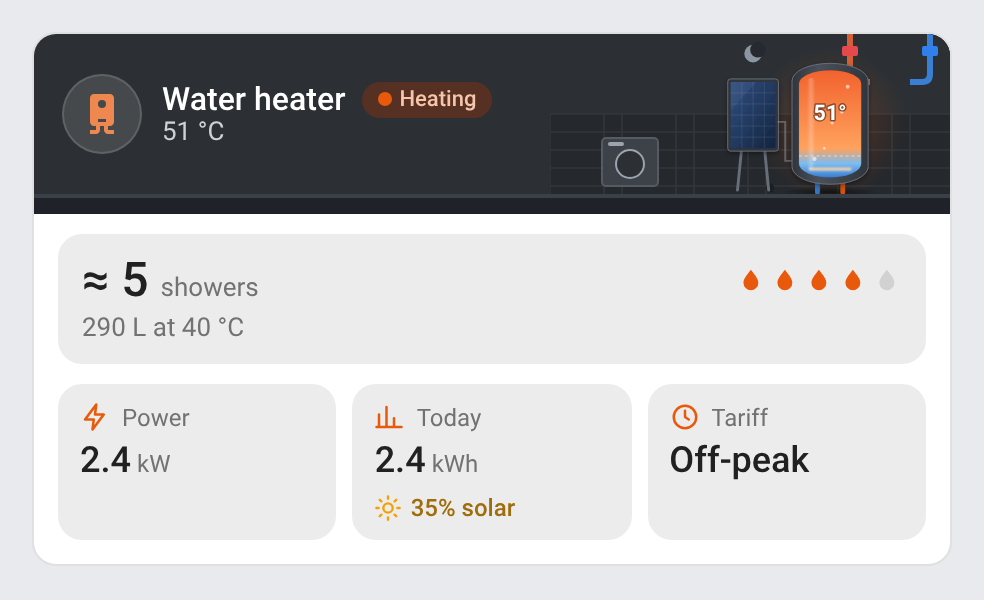
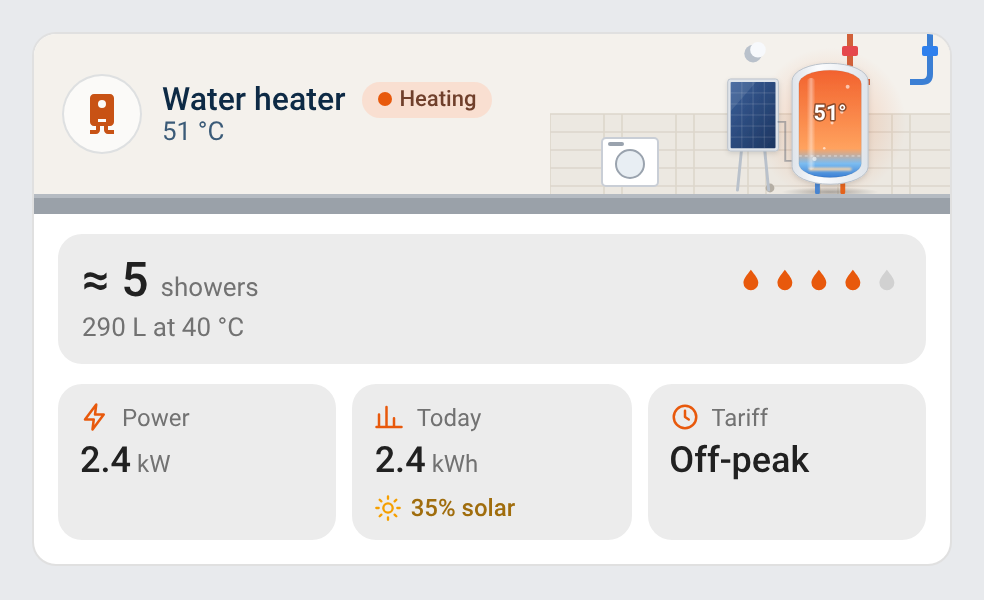
fix: follow the theme alone for the night header (1.2.1) (#9)
The illustrated header's automatic night picture now follows the Home
Assistant theme alone: a dark theme shows the night picture, a light
theme keeps the day one after sunset. A forced illustration_theme
day/night is unchanged.

Kept on purpose: the solar panel's sun or moon (PV-routed tanks) still
follows the real sun (sun.sun), as the README documents — it shows
whether the panel can produce, not the picture's look. Only the banner's
day/night look now follows the theme. The "Automatic" choice of the
header theme now reads "Automatic (follows the theme)" in every
language.

---
_Generated by [Claude
Code](https://claude.ai/code/session_01F4sAn3hi6KaFRisBGMxcQA)_

---------

Changed region(s): [[0.0305, 0.03, 0.9756, 0.36]]

diff --git a/src/shared.js b/src/shared.js
@@ -1523,7 +1523,7 @@ const WH_I18N = {
     ed_title_helper: "Empty: the water heater's name",
     ed_illustration: "Illustrated header",
     ed_illustration_theme: "Header theme",
-    ed_theme_auto: "Automatic (sun or dark theme)",
+    ed_theme_auto: "Automatic (follows the theme)",
     ed_theme_day: "Day",
     ed_theme_night: "Night",
   },
@@ -1584,7 +1584,7 @@ const WH_I18N = {
     ed_title_helper: "Vide : le nom du chauffe-eau",
     ed_illustration: "En-tête illustré",
     ed_illustration_theme: "Thème de l’en-tête",
-    ed_theme_auto: "Automatique (soleil ou thème sombre)",
+    ed_theme_auto: "Automatique (suit le thème)",
     ed_theme_day: "Jour",
     ed_theme_night: "Nuit",
   },
@@ -1645,7 +1645,7 @@ const WH_I18N = {
     ed_title_helper: "Leer: der Name des Warmwasserspeichers",
     ed_illustration: "Illustrierte Kopfzeile",
     ed_illustration_theme: "Thema der Kopfzeile",
-    ed_theme_auto: "Automatisch (Sonne oder dunkles Design)",
+    ed_theme_auto: "Automatisch (folgt dem Design)",
     ed_theme_day: "Tag",
     ed_theme_night: "Nacht",
   },
@@ -1706,7 +1706,7 @@ const WH_I18N = {
     ed_title_helper: "Vacío: el nombre del calentador",
     ed_illustration: "Encabezado ilustrado",
     ed_illustration_theme: "Tema del encabezado",
-    ed_theme_auto: "Automático (sol o tema oscuro)",
+    ed_theme_auto: "Automático (sigue el tema)",
     ed_theme_day: "Día",
     ed_theme_night: "Noche",
   },
@@ -1768,7 +1768,7 @@ const WH_I18N = {
     ed_title_helper: "Празно: назив бојлера",
     ed_illustration: "Илустровано заглавље",
     ed_illustration_theme: "Тема заглавља",
-    ed_theme_auto: "Аутоматски (сунце или тамна тема)",
+    ed_theme_auto: "Аутоматски (прати тему)",
     ed_theme_day: "Дан",
     ed_theme_night: "Ноћ",
   },
@@ -1830,7 +1830,7 @@ const WH_I18N = {
     ed_title_helper: "Prazno: naziv bojlera",
     ed_illustration: "Ilustrovano zaglavlje",
     ed_illustration_theme: "Tema zaglavlja",
-    ed_theme_auto: "Automatski (sunce ili tamna tema)",
+    ed_theme_auto: "Automatski (prati temu)",
     ed_theme_day: "Dan",
     ed_theme_night: "Noć",
   },
@@ -1891,7 +1891,7 @@ const WH_I18N = {
     ed_title_helper: "Vuoto: il nome dello scaldabagno",
     ed_illustration: "Intestazione illustrata",
     ed_illustration_theme: "Tema dell’intestazione",
-    ed_theme_auto: "Automatico (sole o tema scuro)",
+    ed_theme_auto: "Automatico (segue il tema)",
     ed_theme_day: "Giorno",
     ed_theme_night: "Notte",
   },
@@ -1952,7 +1952,7 @@ const WH_I18N = {
     ed_title_helper: "Leeg: de naam van de boiler",
     ed_illustration: "Geïllustreerde koptekst",
     ed_illustration_theme: "Thema van de koptekst",
-    ed_theme_auto: "Automatisch (zon of donker thema)",
+    ed_theme_auto: "Automatisch (volgt het thema)",
     ed_theme_day: "Dag",
     ed_theme_night: "Nacht",
   },
@@ -2013,7 +2013,7 @@ const WH_I18N = {
     ed_title_helper: "Vazio: o nome do termoacumulador",
     ed_illustration: "Cabeçalho ilustrado",
     ed_illustration_theme: "Tema do cabeçalho",
-    ed_theme_auto: "Automático (sol ou tema escuro)",
+    ed_theme_auto: "Automático (segue o tema)",
     ed_theme_day: "Dia",
     ed_theme_night: "Noite",
   },
@@ -2075,7 +2075,7 @@ const WH_I18N = {
     ed_title_helper: "Puste: nazwa podgrzewacza",
     ed_illustration: "Ilustrowany nagłówek",
     ed_illustration_theme: "Motyw nagłówka",
-    ed_theme_auto: "Automatycznie (słońce lub ciemny motyw)",
+    ed_theme_auto: "Automatycznie (według motywu)",
     ed_theme_day: "Dzień",
     ed_theme_night: "Noc",
   },
@@ -2137,7 +2137,7 @@ const WH_I18N = {
     ed_title_helper: "Gol: numele boilerului",
     ed_illustration: "Antet ilustrat",
     ed_illustration_theme: "Tema antetului",
-    ed_theme_auto: "Automat (soare sau temă întunecată)",
+    ed_theme_auto: "Automat (urmează tema)",
     ed_theme_day: "Zi",
     ed_theme_night: "Noapte",
   },
@@ -2198,7 +2198,7 @@ const WH_I18N = {
     ed_title_helper: "Tom: varmtvandsbeholderens navn",
     ed_illustration: "Illustreret overskrift",
     ed_illustration_theme: "Overskriftens tema",
-    ed_theme_auto: "Automatisk (sol eller mørkt tema)",
+    ed_theme_auto: "Automatisk (følger temaet)",
     ed_theme_day: "Dag",
     ed_theme_night: "Nat",
   },
@@ -2259,7 +2259,7 @@ const WH_I18N = {
     ed_title_helper: "Tomt: beredarens namn",
     ed_illustration: "Illustrerad rubrik",
     ed_illustration_theme: "Rubrikens tema",
-    ed_theme_auto: "Automatiskt (sol eller mörkt tema)",
+    ed_theme_auto: "Automatiskt (följer temat)",
     ed_theme_day: "Dag",
     ed_theme_night: "Natt",
   },
@@ -2320,7 +2320,7 @@ const WH_I18N = {
     ed_title_helper: "Празно: името на бойлера",
     ed_illustration: "Илюстрирано заглавие",
     ed_illustration_theme: "Тема на заглавието",
-    ed_theme_auto: "Автоматично (слънце или тъмна тема)",
+    ed_theme_auto: "Автоматично (следва темата)",
     ed_theme_day: "Ден",
     ed_theme_night: "Нощ",
   },
@@ -2382,7 +2382,7 @@ const WH_I18N = {
     ed_title_helper: "Пусто: имя водонагревателя",
     ed_illustration: "Иллюстрированный заголовок",
     ed_illustration_theme: "Тема заголовка",
-    ed_theme_auto: "Автоматически (солнце или тёмная тема)",
+    ed_theme_auto: "Автоматически (следует теме)",
     ed_theme_day: "День",
     ed_theme_night: "Ночь",
   },
@@ -2444,7 +2444,7 @@ const WH_I18N = {
     ed_title_helper: "Порожньо: назва водонагрівача",
     ed_illustration: "Ілюстрований заголовок",
     ed_illustration_theme: "Тема заголовка",
-    ed_theme_auto: "Автоматично (сонце або темна тема)",
+    ed_theme_auto: "Автоматично (за темою)",
     ed_theme_day: "День",
     ed_theme_night: "Ніч",
   },
@@ -2505,7 +2505,7 @@ const WH_I18N = {
     ed_title_helper: "Üres: a vízmelegítő neve",
     ed_illustration: "Illusztrált fejléc",
     ed_illustration_theme: "A fejléc témája",
-    ed_theme_auto: "Automatikus (nap vagy sötét téma)",
+    ed_theme_auto: "Automatikus (a témát követi)",
     ed_theme_day: "Nappal",
     ed_theme_night: "Éjszaka",
   },
@@ -2567,7 +2567,7 @@ const WH_I18N = {
     ed_title_helper: "Prázdne: názov ohrievača",
     ed_illustration: "Ilustrovaná hlavička",
     ed_illustration_theme: "Téma hlavičky",
-    ed_theme_auto: "Automaticky (slnko alebo tmavá téma)",
+    ed_theme_auto: "Automaticky (podľa témy)",
     ed_theme_day: "Deň",
     ed_theme_night: "Noc",
   },
@@ -2629,7 +2629,7 @@ const WH_I18N = {
     ed_title_helper: "Prázdné: název ohřívače",
     ed_illustration: "Ilustrované záhlaví",
     ed_illustration_theme: "Motiv záhlaví",
-    ed_theme_auto: "Automaticky (slunce nebo tmavý motiv)",
+    ed_theme_auto: "Automaticky (podle motivu)",
     ed_theme_day: "Den",
     ed_theme_night: "Noc",
   },
@@ -2691,7 +2691,7 @@ const WH_I18N = {
     ed_title_helper: "Prazno: ime grelnika",
     ed_illustration: "Ilustrirana glava",
     ed_illustration_theme: "Tema glave",
-    ed_theme_auto: "Samodejno (sonce ali temna tema)",
+    ed_theme_auto: "Samodejno (sledi temi)",
     ed_theme_day: "Dan",
     ed_theme_night: "Noč",
   },
@@ -2752,7 +2752,7 @@ const WH_I18N = {
     ed_title_helper: "Tukšs: ūdens sildītāja nosaukums",
     ed_illustration: "Ilustrēta galvene",
     ed_illustration_theme: "Galvenes motīvs",
-    ed_theme_auto: "Automātiski (saule vai tumšais motīvs)",
+    ed_theme_auto: "Automātiski (pēc motīva)",
     ed_theme_day: "Diena",
     ed_theme_night: "Nakts",
   },
@@ -2813,7 +2813,7 @@ const WH_I18N = {
     ed_title_helper: "Κενό: το όνομα του θερμοσίφωνα",
     ed_illustration: "Εικονογραφημένη κεφαλίδα",
     ed_illustration_theme: "Θέμα κεφαλίδας",
-    ed_theme_auto: "Αυτόματα (ήλιος ή σκούρο θέμα)",
+    ed_theme_auto: "Αυτόματα (ακολουθεί το θέμα)",
     ed_theme_day: "Ημέρα",
     ed_theme_night: "Νύχτα",
   },

diff --git a/src/water-heater-card.js b/src/water-heater-card.js
@@ -421,13 +421,13 @@ class WaterHeaterCard extends RcCard {
     return !!this._hass.themes?.darkMode;
   }
 
-  // The banner's night: forced by `illustration_theme`, else the sun below the horizon or Home Assistant's dark theme
-  // (an unknown or unavailable sun leaves the theme alone to decide). The PV panel's sun or moon (`m.night`) keeps
-  // following the real sun: it shows whether the panel produces, not the picture's look.
+  // The banner's night: forced by `illustration_theme`, else Home Assistant's dark theme alone (a light theme keeps the
+  // day picture after sunset). The PV panel's sun or moon (`m.night`) keeps following the real sun: it shows whether
+  // the panel produces, not the picture's look.
   _night() {
     const theme = this._config.illustration_theme;
     if (theme === "night" || theme === "day") return theme === "night";
-    return this._hass.states["sun.sun"]?.state === "below_horizon" || this._dark();
+    return this._dark();
   }
 
   // The illustrated header: the badge (the state's icon, in the state's colour), the title and `sub` on the room's wall

diff --git a/README.md b/README.md
@@ -52,7 +52,7 @@ The cards share the look of the other ha-* cards (header with a status pill, tin
 - **Hot water**: the integration's own figures when it reports them (a volume at 40 °C, a share in %, a number of showers), else an estimate from the water's temperature, the tank's `capacity` and the cold water's temperature (its sensor, else 15 °C), counted in showers of `shower_volume` litres
 - **States**: **heating** (orange: bubbles rise, the element glows, the heat pump's fan turns), **ready** (green), **boost** (pink: a boost mode or switch; *high_demand* is a lasting mode, shown as heating or ready), **away** (grey, until its end date when the integration gives one), **off**, **error** (red, the integration's fault in the panel), *offline* when the water heater cannot report. Heating comes from the water heater's heating sensor, else its power (above 50 W), else a water more than 3 °C below the target
 - **Solar panel**: a PV-routed cumulus (a power sensor as `entity`, or an `energy_solar` role) is drawn with its panel; by day the sun turns and the current runs to the element while it heats, by night the moon (from `sun.sun`)
-- **Illustrated header**: a 90 px banner, the tank drawn big in a utility corner (tiled wall, hot and cold pipes — the hot one pulses while it heats —, a shelf, the washing machine) on a concrete floor strip; the name and the state with the temperature (*Heating · 54 °C*) on the wall at the left, beside a round badge whose icon takes the state's colour (orange heating, green ready, pink boost, grey away / off, red error). By night (the sun below the horizon or the dark theme, even while the sun is up; `illustration_theme: day | night` forces it) the room is dark; the solar panel's sun or moon keeps following the real sun. Under it, the panel's readings: showers left, litres at 40 °C and the note. `illustration: false` brings back the classic header (name, room and model, a state pill) and the big illustration below it
+- **Illustrated header**: a 90 px banner, the tank drawn big in a utility corner (tiled wall, hot and cold pipes — the hot one pulses while it heats —, a shelf, the washing machine) on a concrete floor strip; the name and the state with the temperature (*Heating · 54 °C*) on the wall at the left, beside a round badge whose icon takes the state's colour (orange heating, green ready, pink boost, grey away / off, red error). By night (with a dark Home Assistant theme; `illustration_theme: day | night` forces it) the room is dark; the solar panel's sun or moon keeps following the real sun. Under it, the panel's readings: showers left, litres at 40 °C and the note. `illustration: false` brings back the classic header (name, room and model, a state pill) and the big illustration below it
 - **Three tiles**, the ones that matter in each state among what the water heater reports: power, energy (today's when the sensor is a daily one; with a grid / solar split, the total and the solar share — *Today 2.4 kWh · 35% solar*), mode, `tariff` (off-peak / peak), the cold water's temperature, the end of an absence
 - **Controls**: the water heater's **modes** (its own list, *off* and *away* aside, up to four), **Boost** when it is a switch rather than a mode, **Away** / **Back home** (the away mode, or an away switch), the **target** in steps of the water heater (− 55 °C +, within its range); **Heat now** / **Stop** for a cumulus on a relay (none for a PV-routed tank: the router decides)
 - A tap on the illustration opens the water heater's dialog
@@ -153,7 +153,7 @@ entities:
 | `shower_volume` | number | `50` | Litres at 40 °C per shower |
 | `tariff` | string | | An off-peak / peak sensor, shown in a tile |
 | `illustration` | boolean | `true` | Both: the illustrated header (`false`: the classic header) |
-| `illustration_theme` | string | `auto` | Both: `auto` (night with the sun below the horizon or with the dark theme, even while the sun is up), `day` or `night` |
+| `illustration_theme` | string | `auto` | Both: `auto` (follows the Home Assistant theme: night with a dark theme, day with a light theme), `day` or `night` |
 | `show_scene` | boolean | `true` | The illustration (under the banner: its readings panel) |
 | `animations` | boolean | `true` | Bubbles, glowing element, turning fan |
 | `show_controls` | boolean | `true` | Modes, boost, away, target, heat now / stop |

diff --git a/CHANGELOG.md b/CHANGELOG.md
@@ -1,5 +1,10 @@
 # Changelog
 
+## 1.2.1 - 2026-11-18
+
+### Fixes
+- Illustrated header: `auto` now follows the Home Assistant theme alone — a light theme keeps the day picture after sunset, a dark theme still shows the night one.
+
 ## 1.2.0 - 2026-11-17
 
 ### Features
